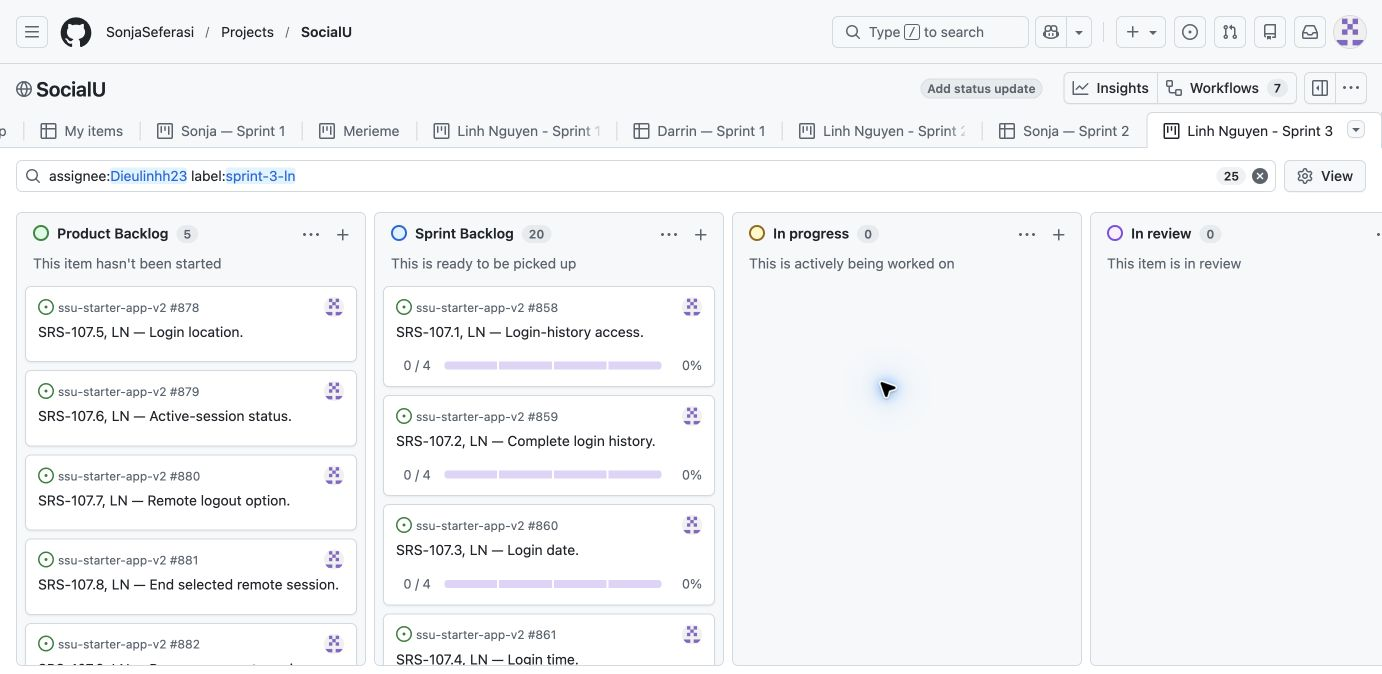
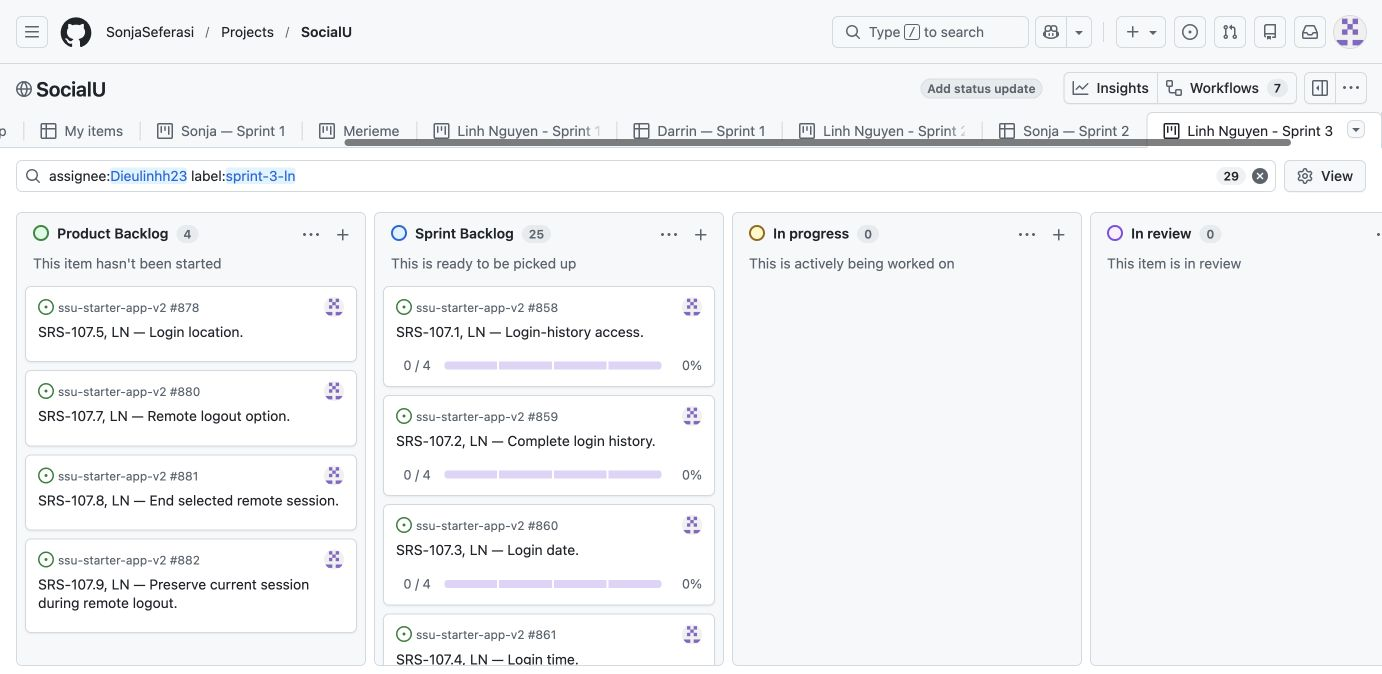
Sprint 3: plan active-session status and audit remaining LN work

diff --git a/documentation/sprint3/remaining-work-audit.md b/documentation/sprint3/remaining-work-audit.md
@@ -1,0 +1,76 @@
+# LN remaining-work audit — October 28, 2026
+
+Purpose: choose a manageable Sprint 3 commitment while exposing what could still block completion in Sprint 4. This is a code/backlog audit, not a declaration that all existing features have passed acceptance.
+
+## Decision
+
+Sprint 3 commits to **SRS-107.1, 107.2, 107.3, 107.4 and 107.6**: a signed-in student opens Login Activity, reaches all recorded history, reads each entry's date/time, and sees which sessions are active. Reuse the current authentication infrastructure. Do not add dashboards, charts, new decoration features, GPS collection or remote logout to this slice.
+
+SRS-107.6 was moved from the future backlog into this commitment on October 28. Its own SRS-named branch was created before implementation. All five items remain unstarted; this planning pass changes no application code or hosted database.
+
+## Evidence and limits
+
+- Fetched main at `7d048efc59060fab163e6275b55916f8f2515d38`. The planning branch predates the latest team changes; auth/profile/friendship source inspected here is unchanged in the relevant files, except the current main notification view has newer team changes. No teammate code was replaced or pulled into the working tree.
+- Read the canonical [SRS](../SocialU_SRS_Editable.md), existing LN issues, account/profile/friendship routes, UI, SQL and relevant test definitions. Old broad issue descriptions were treated as historical notes, not proof of current completion.
+- Tests were not rerun for this planning-only audit. Existing tests indicate coverage and intended behavior; they do not establish hosted deployment or end-to-end acceptance. The previous 957-test result is not relabeled as a new result for current main.
+- No real account was created, email sent, friendship changed, session revoked or account deactivated during this audit.
+- The three local unfriend files remain excluded. They are not part of the shared baseline or this Sprint 3 commitment.
+
+## Account and authentication areas
+
+| Area | Code evidence | Remaining work / acceptance decision |
+| --- | --- | --- |
+| UR-100 registration | `app/api/auth/register/route.ts`, account forms and registration tests exist; Sprint 1 selected SRS-100.1 already has its own record. | Do not rebuild registration. #47 still lacks complete unique-username acceptance. Verify supported-school policy and concurrent duplicate handling; distinguish those checks from the already graded missing-name behavior. |
+| UR-101 verification | `app/api/auth/verify/route.ts` and account forms implement email-link verification. | **Specification mismatch:** the SRS specifies six-digit code generation, entry and validation. The current route accepts email-link sessions/token hashes instead. This is not evidence that the code-entry criteria are complete. Resolve with the instructor/team: implement the stated behavior or obtain an approved SRS change. |
+| UR-102 resend | `app/api/auth/resend/route.ts` uses provider email resend plus the application guard; the response says a new link was sent. | Six-digit replacement code and 10-second previous-code grace/invalidation are not established by this link-based route. Record the provider/configuration finding and resolve the original acceptance criteria; do not assume a passing resend response proves grace-period behavior. |
+| UR-103 login | Username/email resolution, password sign-in, failed-attempt/reverification handling, Remember Me and login redirect are present. | Live successful/failed/reverification acceptance still needed. Reverification currently uses an email link, so the six-digit requirement needs the same scope decision as UR-101. |
+| UR-104 reset password | Forgot/reset/verify routes, encrypted recovery tickets and session-revocation support exist. | The implemented reset-link workflow differs from six-digit reset-code requirements. Review the exact criteria, including previous-password restriction and two-device revocation. Reuse working code rather than count an old implementation as new Sprint 3 work. |
+| UR-105 change password | `/account/security`, change-password API, password policy and revoke-other-session support exist. | Verify current-session preservation, other-session revocation and actual email notification with authorized accounts. Password-change revocation is not the same behavior as selecting one session for remote logout. |
+| UR-106 university-email change | No complete student-facing replacement-email workflow or dedicated email-change API was found. | **New implementation remains:** access, current-password verification, supported/unique replacement, verification, preservation of current email, and final replacement. Keep deferred transfers 106.10–106.13 deferred. |
+| UR-107 Login Activity | Proposed `database/schema.sql` has `login_sessions`; existing runtime guard uses provider `auth.sessions` and application revocation cutoffs. No student-facing history page/API was found. | **Sprint 3:** 107.1–107.4 plus 107.6. Verify how history is recorded/retained; do not equate provider active sessions with complete durable history. **Later:** 107.5 and 107.7–107.9. |
+| UR-108 logout confirmation | `ProfileLogout` in `components/profile/profile-view.tsx` calls logout immediately and clears local session storage. | Confirmation/choices/cancel/page preservation in 108.1–108.4 are missing from that control. Existing logout/redirect/storage clearing can be reused for 108.5–108.7 after verification. |
+
+## Profile areas
+
+| Area | Code evidence | Remaining work / acceptance decision |
+| --- | --- | --- |
+| UR-109 profile information | Profile editor/details API support photo, major, class year and a 250-character bio; format/size tests exist. | **Mismatch:** setup labels the bio optional, the API permits a blank bio, and tests explicitly accept it; SRS-109.7/109.9 require a bio during required setup. Also review 109.4 against browser preprocessing: large decodable files can be resized before reaching the server, while the SRS says reject a profile-photo file over 10 MB. These are findings requiring a fix or approved specification decision. |
+| UR-110 profile editing | Editor, authenticated save API, name cooldown and unsaved-change dialog exist. | Save/reload and leave/cancel flows need real-account acceptance evidence. The new decorations in PR #855 are already delivered extensions, not new Sprint 3 implementation. |
+| UR-111 activity summary | Profile counts and friendship-aware queries exist. | Check actual accepted/pending/deleted/Snipe exclusions and count changes after removal/blocking with controlled test data. |
+| UR-112 Posts / Tagged | Profile content tabs and authenticated content API exist; Saved is an owner-only extension. | Verify category filtering, accessible tagged posts, empty states and Snipe exclusion on the integrated app. |
+| UR-113 other profiles | Student-profile route/API, relationship controls and access tests exist. | Verify nonfriend/Public vs friend/Friends Only, blocked/inactive restrictions and permitted message-request entry. Chat integration must be coordinated with its owner; do not duplicate their sending/consent implementation. |
+
+## Friendship and account-lifecycle areas
+
+| Area | Code evidence | Remaining work / acceptance decision |
+| --- | --- | --- |
+| UR-114 send requests | Authenticated friendship API, action controls, SQL and notification integration exist. | #503–#505 retain acceptance gaps; #506/#511 still need their previously deferred fresh-request/unread-notification check. Keep original Sprint 2 history; do not count these old implementations as new Sprint 3 code. |
+| UR-115 pending requests | Friends page has Received/Sent views and Cancel request; friendship SQL persists request states. | Verify sender/recipient ownership, cancel removal on both lists and required student information. Current list rows show name/username/photo; school and major required by 115.5/.6 are not rendered there. |
+| UR-116 accept request | Accept action, mutual friendship and supporting SQL exist. | Verify both lists, both notification recipients, Friends Only access and authorized conversation behavior. |
+| UR-117 decline request | Decline action and SQL transitions exist. | Verify no friendship/block/decline notification, and immediate eligible resend in both directions. |
+| UR-118 friends search | Search-as-you-type, lowercased full/display-name matching and pagination exist. | UI displays “No matches found” where SRS-118.10 requires “No friends found”. Search-result rows also omit the major required by 118.9. Verify these specific gaps and normal search behavior before claiming full acceptance. |
+| UR-119 profile messaging | Message actions and shared chat/access infrastructure exist; chat has newer team changes. | Coordinate acceptance with the chat owner for nonfriend requests, former-friend consent, blocks and personal-view deletion. This audit does not certify the other owner's code or schedule duplicate chat implementation. |
+| UR-120 remove friend | Remove/confirmation controls and SQL exist. | Verify cancel, both friendship views, Friends Only access, preserved conversation and eligible future request. The separately local mutual-unfollow migration is not deployed and is not a new requirement introduced by this plan. |
+| UR-121 block | Confirmation, block action, SQL restrictions and conversation access guards exist. | Verify both directions for profile/feed/request/message restrictions and that old conversation visibility follows the current SRS. |
+| UR-122 manage blocks | Account Settings links to Blocked students; list, Unblock and confirmation controls exist. | Verify account ownership, no automatic re-friending and future eligible requests. Current blocked-list identity rows omit school/major required by 122.4/.5. |
+| UR-123 deactivate/reactivate | Deactivation form/API, lifecycle SQL, password checks and explicit login-reactivation flow exist. | Verify preserved profile/posts/friendships, inactive access and two-device revocation, followed by actual restoration. Code presence is not a completed live demonstration. |
+
+## Delivery order and workload control
+
+| Checkpoint | Focus | Stop / reconsider if… |
+| --- | --- | --- |
+| First working day | SRS-107.1: determine durable history contract and connect own-account data/API/UI. Record SRS/provider gaps on the card. | A reliable, owner-isolated recording/read pipeline is not feasible in the remaining week. Reduce scope openly rather than invent historical entries. |
+| Midweek | SRS-107.2–107.4: make all recorded entries reachable and show recorded dates/times with a consistent timezone. | Pagination, auth or timestamp boundaries fail. Fix these before adding active-status presentation. |
+| Remaining implementation time | SRS-107.6: derive active/inactive state from actual provider/session and application revocation information. | Active state cannot be established reliably. Keep the card open and return it to Product Backlog if the sprint ends unfinished. |
+| Final verification time | Real account/second-session checks, per-card screenshots, PR review/merge, integrated demo and current board. | A card lacks working acceptance, merged PR or screenshot. It stays unfinished. |
+
+These are planning checkpoints, not dated promises. The assignment gives one week; no exact due date or daily availability was supplied. Five selected SRS items are a limit, not a reason to add more feature work.
+
+## Sprint 4 handoff and completion risk
+
+1. Implement the missing university-email change flow (UR-106) and the remaining Login Activity controls (107.5, 107.7–107.9), selecting exact SRS cards/tasks before coding.
+2. Complete logout confirmation (UR-108) and small profile/request/search/blocked-list corrections identified above.
+3. Close existing acceptance gaps with actual demonstrations, screenshots and appropriate PRs, coordinating messaging with the chat owner.
+4. **Resolve the email-link vs six-digit-code and required-profile-field findings early, during Sprint 3 planning/review.** Do not wait until the final demo to discover the instructor requires implementation changes. No SRS wording is changed by this audit.
+
+There is more remaining work than the original five future Login Activity cards suggested. Finishing every requirement in one final sprint is **not established**. If the original code-based authentication criteria remain mandatory, agree on scope and a realistic delivery plan with the instructor/team before assuming the above Sprint 4 work fits. Do not silently mark unmatched criteria complete.

diff --git a/documentation/sprint3/README.md b/documentation/sprint3/README.md
@@ -1,6 +1,6 @@
 # Sprint 3 planning — Linh Nguyen (LN)
 
-Prepared October 27, 2026 from the professor's CSC 351 Sprint 3 assignment. **Planning only: no new Sprint 3 implementation or completion is claimed.**
+Prepared October 27; scope reviewed October 28, 2026 from the professor's CSC 351 Sprint 3 assignment. **Planning only: no new Sprint 3 implementation or completion is claimed.**
 
 ## Review this first
 
@@ -8,6 +8,7 @@ Prepared October 27, 2026 from the professor's CSC 351 Sprint 3 assignment. **Pl
 - Personal Sprint 3 board: https://github.com/users/SonjaSeferasi/projects/2/views/16
 - Owner and required assignee for every SRS card and task: `Dieulinhh23`.
 - Canonical requirements: [SocialU SRS](../SocialU_SRS_Editable.md).
+- Remaining work and Sprint 4 risks: [October 28 audit](remaining-work-audit.md).
 - Completion rules: [team Definition of Done](../definition-of-done.md).
 - Copyable card, task and PR bodies: [templates](templates.md).
 - Original prepared SRS/task templates: [ready-issues.md](ready-issues.md); structured plan with actual issue IDs: [issue-plan.json](issue-plan.json). Verified published links are recorded in [publication.json](publication.json).
@@ -19,31 +20,23 @@ This branch is for planning files only. It is not an implementation branch for a
 | Part | Status |
 | --- | --- |
 | Sprint 3 instructions reviewed | Complete |
-| Scope and exact SRS selection | Login Activity: SRS-107.1–107.4, selected from Linh's supplied ownership area after the initial code/backlog audit |
+| Scope and exact SRS selection | Login Activity: SRS-107.1–107.4 and SRS-107.6, selected from Linh's supplied ownership area after the initial code/backlog audit |
 | Planning templates | Prepared |
-| GitHub SRS cards and task sub-issues | Published through the reconnected GitHub browser: nine SRS parents and 16 real linked task sub-issues, all open and assigned to Dieulinhh23 |
-| Sprint 3 board view and statuses | Saved “Linh Nguyen - Sprint 3” view; filter `assignee:Dieulinhh23 label:sprint-3-ln`; five future requirements in Product Backlog, four selected parents and 16 tasks in Sprint Backlog |
-| Per-SRS implementation branches | Four SRS-named branches created at baseline `2b3a521` before coding; no implementation commits yet |
+| GitHub SRS cards and task sub-issues | Published through the reconnected GitHub browser: nine SRS parents and 20 real linked task sub-issues, all open and assigned to Dieulinhh23 |
+| Sprint 3 board view and statuses | Saved “Linh Nguyen - Sprint 3” view; filter `assignee:Dieulinhh23 label:sprint-3-ln`; four future requirements in Product Backlog, five selected parents and 20 tasks in Sprint Backlog |
+| Per-SRS implementation branches | Five SRS-named branches created before coding: the original four at `2b3a521`, and SRS-107.6 at current main `7d048ef`; no implementation commits yet |
 | New Sprint 3 implementation | Not started in this setup |
 | Tests, merged implementation PRs and screenshots | Add after implementation; no results claimed yet |
 
 ## Selected work and later scope
 
-Sprint 3 prepares the read-only Login Activity feature: access to the student's own recorded history, access to all recorded entries, and recorded date/time display. Four selected items have 16 prepared task bodies in total. These are unstarted implementation plans, not a claim that branches alone satisfy the assignment.
+Sprint 3 prepares the read-only Login Activity feature: access to the student's own recorded history, access to all recorded entries, recorded date/time display, and actual active-session status. Five selected items have 20 linked task sub-issues in total. These are unstarted implementation plans, not a claim that branches alone satisfy the assignment.
 
 The historical #125–#133 issues were checked: they are closed as `not_planned`, not completed implementation. This setup leaves those retirement records unchanged. The connector initially returned 403, but browser access later recovered and the new exact SRS parents and linked tasks were published through GitHub's normal UI.
 
-Reserve SRS-107.5–107.9 for later selection: recorded location when available, active-session status, the remote logout action, actual remote termination, and preservation of the current session. University-email changes in UR-106 also remain outside this sprint plan. This leaves meaningful implementation for the last sprint without claiming it is already scheduled or guaranteed to fit.
+Reserve SRS-107.5 and SRS-107.7–107.9 for later selection: recorded location when available, the remote logout action, actual remote termination, and preservation of the current session. University-email changes (UR-106), logout confirmation (UR-108), smaller SRS corrections and acceptance checks also remain. The [remaining-work audit](remaining-work-audit.md) records all LN areas and the delivery risk.
 
-Choose several LN-owned SRS items that can be implemented and demonstrated in one week. Inspect the existing code and issue history first; do not treat a missing screenshot as proof that a feature has not already been built. Reuse a suitable existing SRS issue instead of making duplicates. An old issue titled `Task SRS-…` may need an honest format correction and real child tasks to become the SRS parent required by this assignment.
-
-Possible areas for Linh to choose:
-
-| Area | Findings to consider before selection |
-| --- | --- |
-| Profile editing | Substantial profile work is already merged in PR #855; editor code also already contains unsaved-change handling and display-name cooldown. Identify a genuine remaining gap before committing new work. |
-| Friendships | #503–#505 have existing implementation evidence from PR #501 but unfinished acceptance records. #506/#511 are historical notification acceptance work; they are not a new implementation claim. |
-| Account/security | Existing overview #423 records Login Activity as unfinished. No student-facing Login Activity route was found during the initial local audit. The canonical SRS-107 items and old issues #125–#133 are candidates for inspection, not selected commitments. |
+Resolve the email-link versus six-digit-code requirements and required-profile-field findings with the instructor/team early. Existing code does not prove those criteria are satisfied, and completion of all remaining requirements in one final sprint is not yet established. This plan changes no canonical SRS wording.
 
 Existing graded Sprint 1 and Sprint 2 records, the profile evidence branch, prior merged PRs and the local-only unfriend edits remain separate. No new SRS numbers or changed shall statements are introduced by this planning setup.
 
@@ -57,9 +50,10 @@ The board is set up in the dependency order below. All cards and tasks are open.
 | 2 | [SRS-107.2, LN — Complete login history. #859](https://github.com/SonjaSeferasi/ssu-starter-app-v2/issues/859) | Sprint Backlog | [`linh/srs-107.2-complete-login-history`](https://github.com/SonjaSeferasi/ssu-starter-app-v2/tree/linh/srs-107.2-complete-login-history) | #866–#869; 0/4 complete |
 | 3 | [SRS-107.3, LN — Login date. #860](https://github.com/SonjaSeferasi/ssu-starter-app-v2/issues/860) | Sprint Backlog | [`linh/srs-107.3-login-date`](https://github.com/SonjaSeferasi/ssu-starter-app-v2/tree/linh/srs-107.3-login-date) | #870–#873; 0/4 complete |
 | 4 | [SRS-107.4, LN — Login time. #861](https://github.com/SonjaSeferasi/ssu-starter-app-v2/issues/861) | Sprint Backlog | [`linh/srs-107.4-login-time`](https://github.com/SonjaSeferasi/ssu-starter-app-v2/tree/linh/srs-107.4-login-time) | #874–#877; 0/4 complete |
-| 5–9 | SRS-107.5–107.9, issues [#878](https://github.com/SonjaSeferasi/ssu-starter-app-v2/issues/878), [#879](https://github.com/SonjaSeferasi/ssu-starter-app-v2/issues/879), [#880](https://github.com/SonjaSeferasi/ssu-starter-app-v2/issues/880), [#881](https://github.com/SonjaSeferasi/ssu-starter-app-v2/issues/881), [#882](https://github.com/SonjaSeferasi/ssu-starter-app-v2/issues/882) | Product Backlog; not selected for Sprint 3 | Create when selected | Decompose when selected |
+| 5 | [SRS-107.6, LN — Active-session status. #879](https://github.com/SonjaSeferasi/ssu-starter-app-v2/issues/879) | Sprint Backlog | [`linh/srs-107.6-active-session-status`](https://github.com/SonjaSeferasi/ssu-starter-app-v2/tree/linh/srs-107.6-active-session-status) | #915–#918; 0/4 complete |
+| Later | SRS-107.5, 107.7–107.9: [#878](https://github.com/SonjaSeferasi/ssu-starter-app-v2/issues/878), [#880](https://github.com/SonjaSeferasi/ssu-starter-app-v2/issues/880), [#881](https://github.com/SonjaSeferasi/ssu-starter-app-v2/issues/881), [#882](https://github.com/SonjaSeferasi/ssu-starter-app-v2/issues/882) | Product Backlog; not selected for Sprint 3 | Create when selected | Decompose when selected |
 
-![Sprint 3 planning board: five future requirements and four selected parents with open linked tasks](sprint3-board.png)
+![Sprint 3 planning board: four future requirements and five selected parents with open linked tasks](sprint3-board.png)
 
 This screenshot is planning/board evidence only. It does not replace the per-SRS screenshots of the running application required after implementation.
 
@@ -72,7 +66,7 @@ The professor requires several SRS items; one broad UR or this planning document
 1. Use its exact title from the canonical SRS, including number, LN initials and wording. Paste its exact shall statement, acceptance criterion and `Traces to: UR-…` line. Link its existing UR overview and the corresponding [URD story](../user_requirements.md).
 2. Assign the SRS parent to `Dieulinhh23`; add it to the team Project with the appropriate backlog status.
 3. Create actual task sub-issues covering the data contract/database, API, UI and automated plus live acceptance needed for that behavior. Assign every task to `Dieulinhh23`. A checklist or a `Parent: #…` sentence alone does not establish a GitHub sub-issue relationship.
-4. Create the SRS-named branch from an up-to-date integrated baseline before coding, for example `linh/srs-107.1-login-history-access`. This is a naming example, not a branch already created by this setup. Link the branch on the SRS issue.
+4. Create the SRS-named branch from an up-to-date integrated baseline before coding, for example `linh/srs-107.1-login-history-access`. All five selected branches already exist and are linked from their SRS issues. When coding starts, switch to the correct branch and integrate needed reviewed dependencies first; keep the actual implementation on that SRS branch.
 5. Keep tasks open and the parent in Sprint Backlog until work starts. Update statuses during the week as work changes.
 
 Existing schema can satisfy the data layer. Add only tasks needed by the exact SRS behavior; do not add unrelated features to inflate the slice.
@@ -94,7 +88,7 @@ Linh must attend demo day. Show the integrated checked-in application on one lap
 Canvas links to fill in later:
 
 - Team Project link: https://github.com/users/SonjaSeferasi/projects/2
-- Sprint 3 SRS issue links: #858, #859, #860 and #861 above; application evidence and implementation PRs must be added later.
+- Sprint 3 SRS issue links: #858, #859, #860, #861 and #879 above; application evidence and implementation PRs must be added later.
 - Each merged implementation PR: pending implementation.
 
 The assignment totals 50 points: Product Backlog 6; sprint items/tasks 10; branches/code links 9; screenshots 5; current board 5; demo 15. This plan does not guarantee points or claim submission/attendance.

diff --git a/documentation/sprint3/ready-issues.md b/documentation/sprint3/ready-issues.md
@@ -1,3 +1,5 @@
+> October 28 scope update: SRS-107.6 is now selected for Sprint 3, with real tasks #915–#918. The original templates below are historical preparation; use [README.md](README.md), [issue-plan.json](issue-plan.json) and [publication.json](publication.json) for the current published plan.
+
 # Prepared Sprint 3 issue bodies
 
 These are the original prepared issue/task templates. The cards have since been published through the reconnected GitHub browser; see [the planning index](README.md) and [verified issue links](publication.json). Placeholders below are retained as template text, not a claim that relationships are missing in the published cards. The older #125–#133 records are closed as not planned and remain unchanged.
